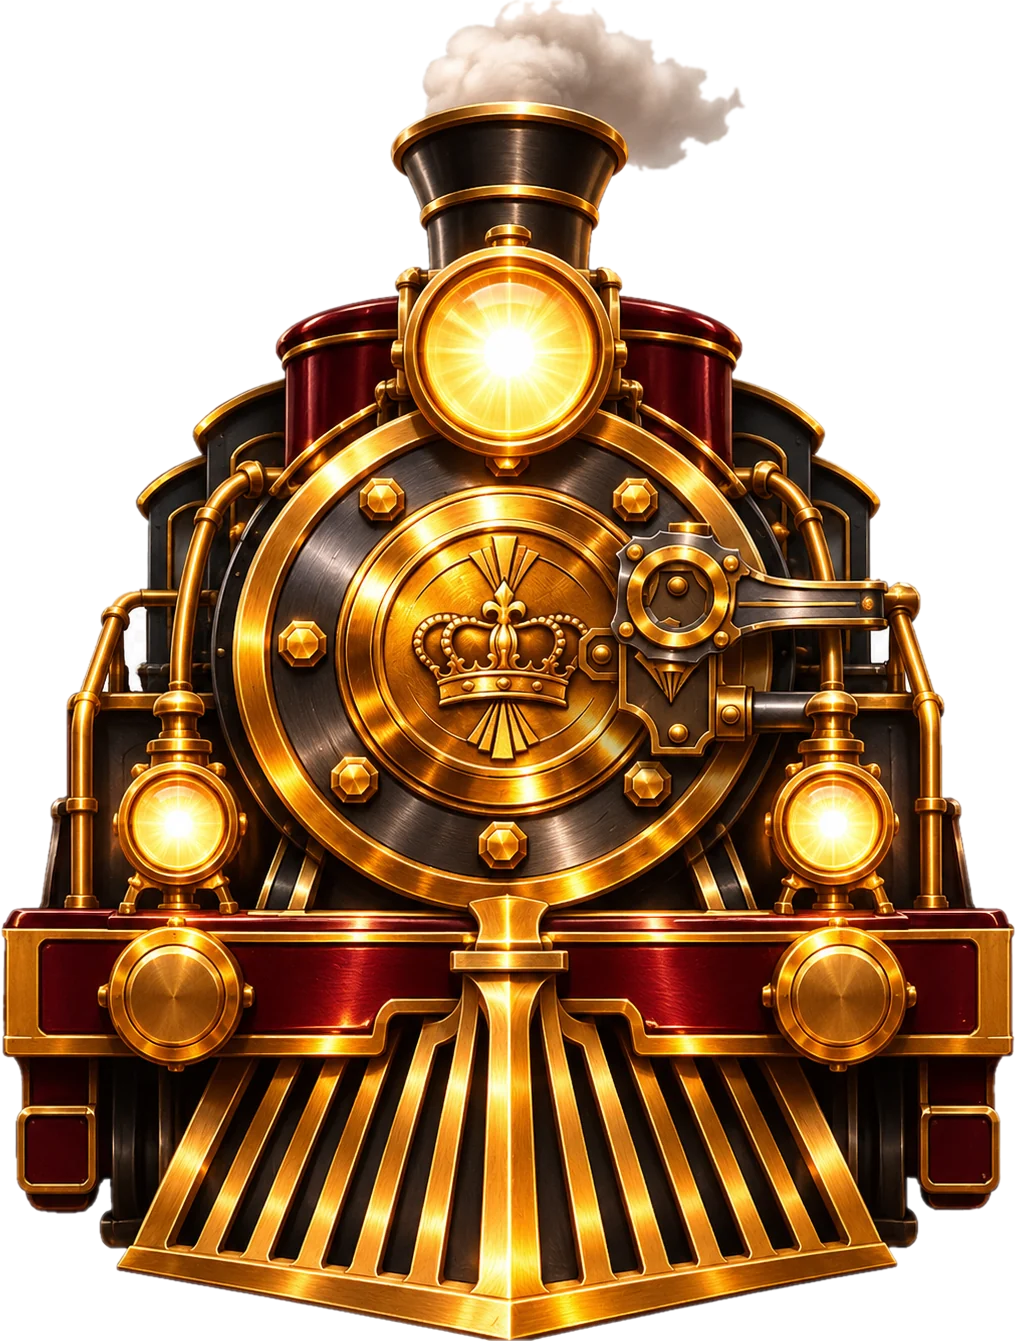
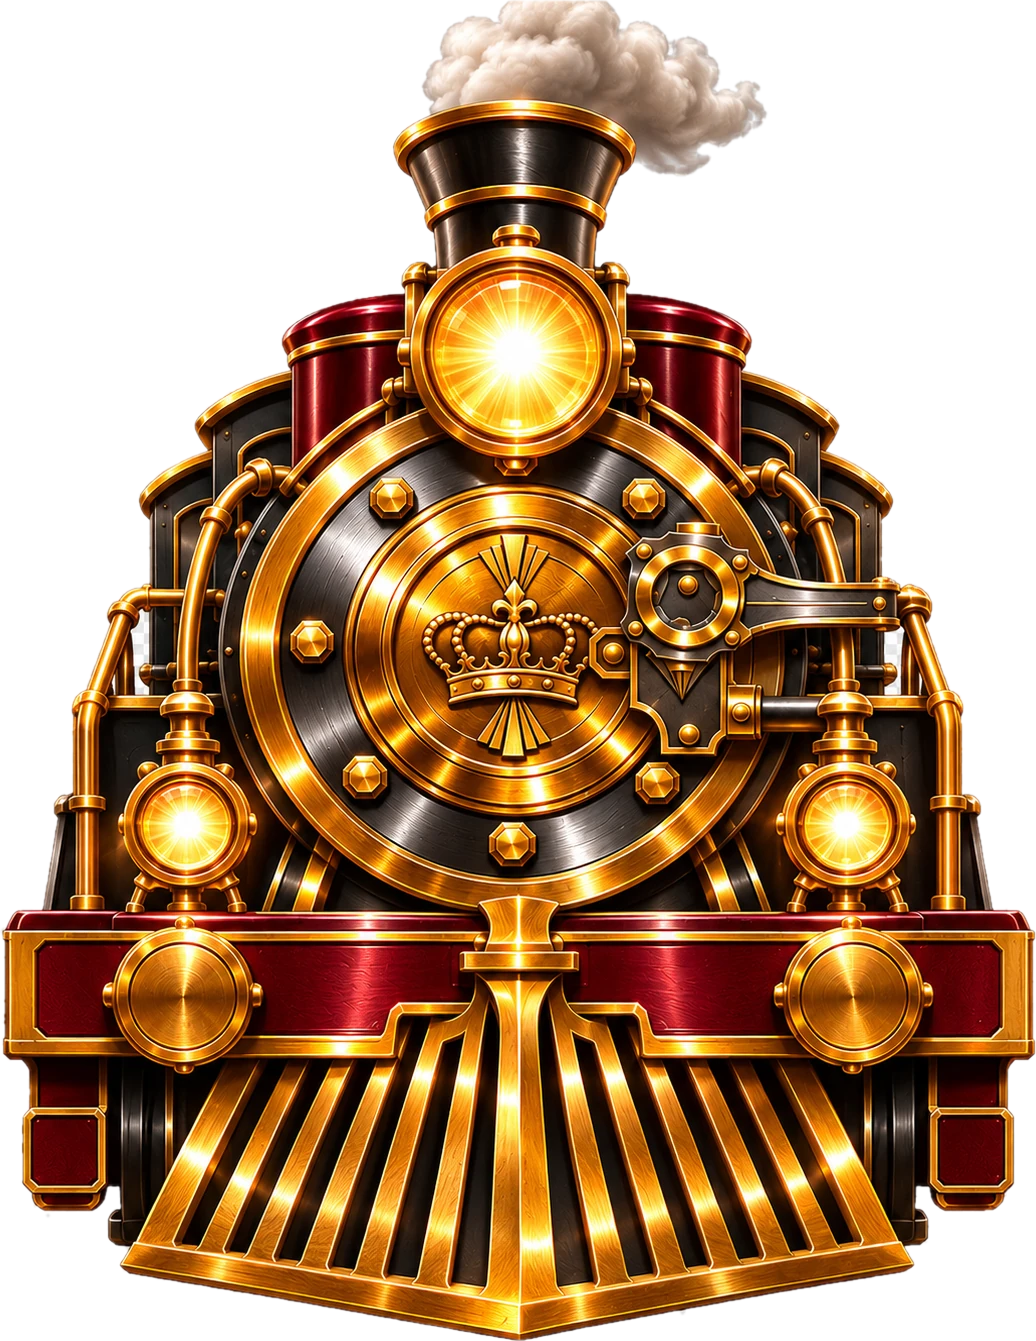
Baron Express : la locomotive de face en meilleure qualité
Claude-Session: https://claude.ai/code/session_01Vs3Q35NuqGK4HWxeJkBpbC

diff --git a/CasinoBaronWheel.tsx b/CasinoBaronWheel.tsx
@@ -502,7 +502,7 @@ export function LampesDecor({ lampes }: { lampes: MutableRefObject<(HTMLDivEleme
 // L'arrivée de l'Express : la locomotive sort du moyeu de la roue et fonce vers le joueur
 
 /** La porte de la boîte à fumée dans l'image de la locomotive (centre et rayon, en pixels), et la taille de l'image. */
-const LOCO_FACE = { w: 1016, h: 1341, cx: 499, cy: 657, r: 258 };
+const LOCO_FACE = { w: 1036, h: 1341, cx: 511, cy: 657, r: 262 };
 /** Le cercle d'acier du moyeu dans son image (part de sa demi-largeur). */
 const MOYEU_ANNEAU = 205 / 210;
 
